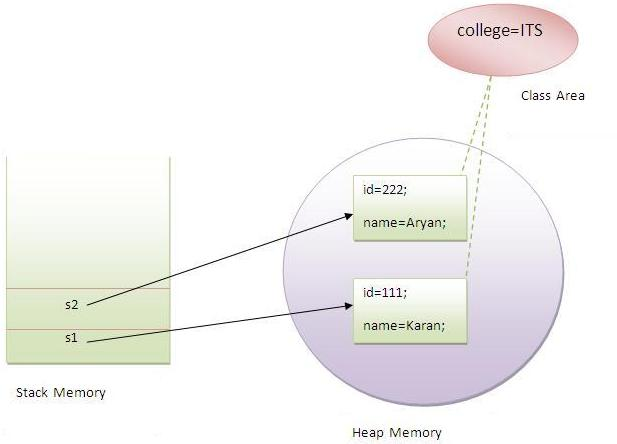
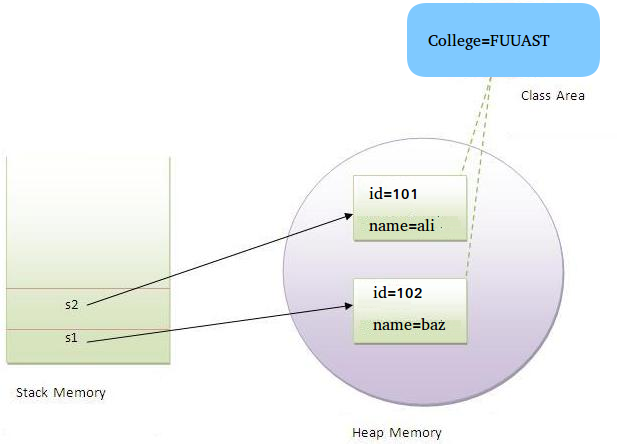
all set

diff --git a/pages/lectures/chap1/chap1_variables.md b/pages/lectures/chap1/chap1_variables.md
@@ -120,17 +120,20 @@ A variable that is declared as static is called static variable. It cannot be lo
 
 ### Local Variables
 
-+ Local variables are declared in methods, constructors, or blocks.
++ Local variables are declared in methods, constructors, or blocks (instance initializer block).
 + Local variables are created when the method, constructor or block is entered and the variable will be destroyed once it exits the method, constructor, or block.
 + Access modifiers cannot be used for local variables.
 + Local variables are implemented at stack level internally.
 + There is no default value for local variables, so local variables should be declared and an initial value should be assigned before the first use.
 
-{% include tip.html content="The constructor is a special type of method which is used to initialize the object." %}
+{% include tip.html content="The constructor is a special type of method which is used to initialize the object and Instance Initializer block is used to initialize the instance data member." %}
+
+{% include note.html content="We will learn constructor and instance initializer block in the next lectures.
+" %}
 
 ### Instance Variables
 
-+ Instance variables are declared in a class, but outside a method, constructor or any block.
++ Instance variables are declared in a class, but outside a method, constructor or blocks.
 + When a space is allocated for an object in the heap, a slot for each instance variable value is created.
 + Instance variables are created when an object is created with the use of the keyword `new` and destroyed when the object is destroyed.
 + Instance variables hold values that must be referenced by more than one method, constructor or block, or essential parts of an object's state that must be present throughout the class.
@@ -173,7 +176,7 @@ It makes your program memory efficient (i.e it saves memory).
 {% include code.html lang="java" content="class Student{ 
      int rollno; 
      String name; 
-     String college=\"ITS\";
+     String college=\"FUUAST\";
 }" %}
 
 Suppose there are 500 students in the college, now all instance data members will get memory each time when object is created. All student have its unique rollno with name so instance data member is good. But, when college refers to the common property for all objects. so we make it static, this will make space in memory only once.
